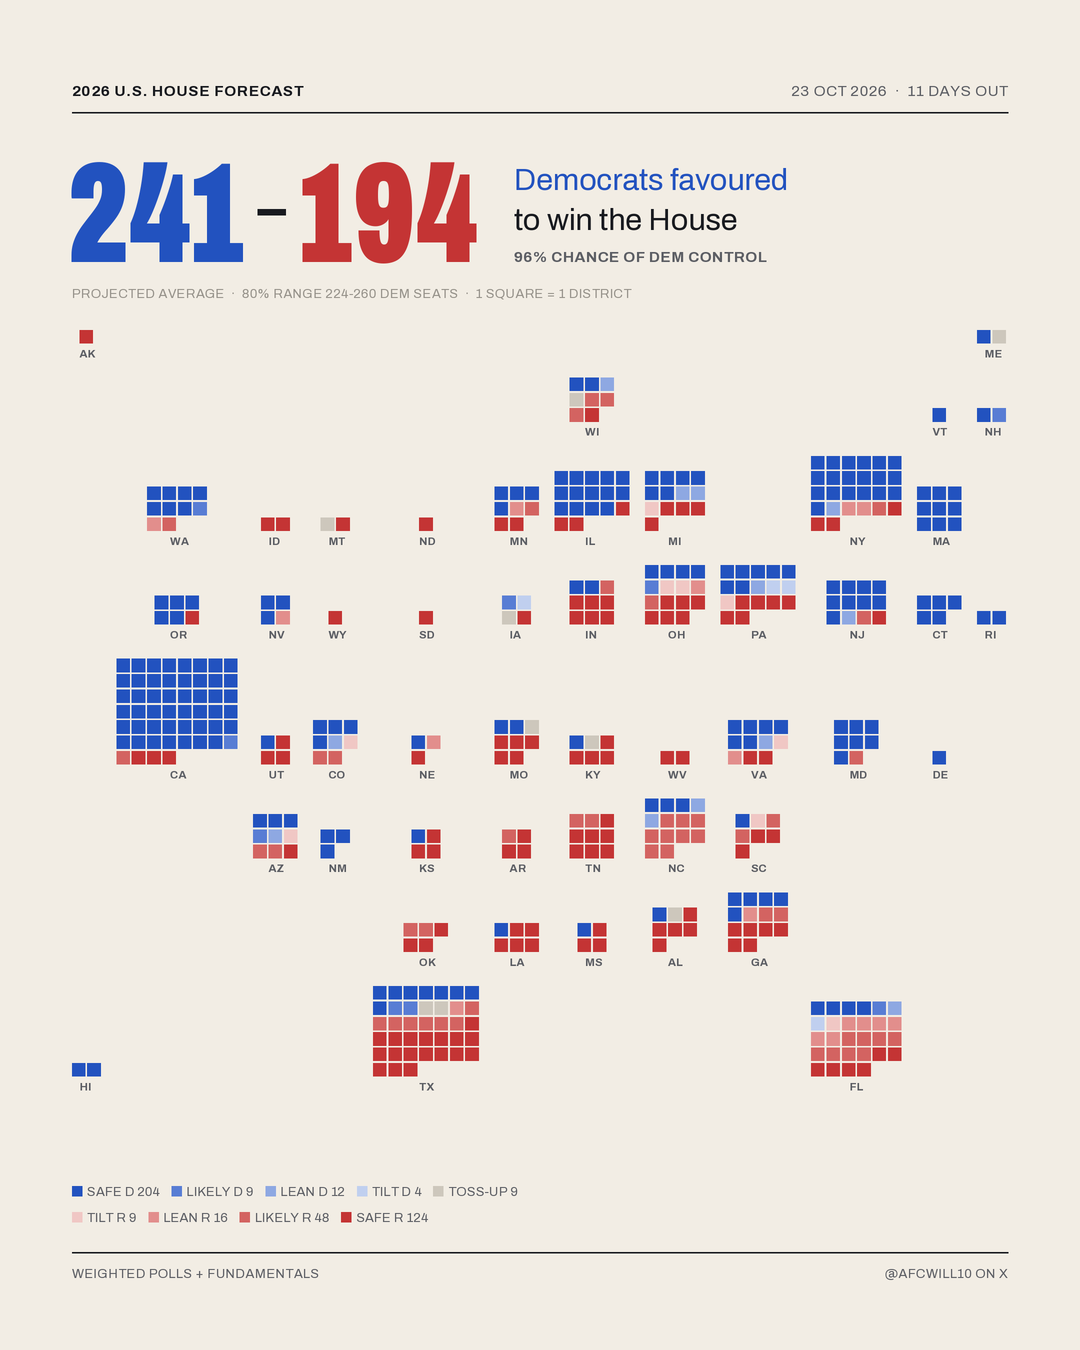
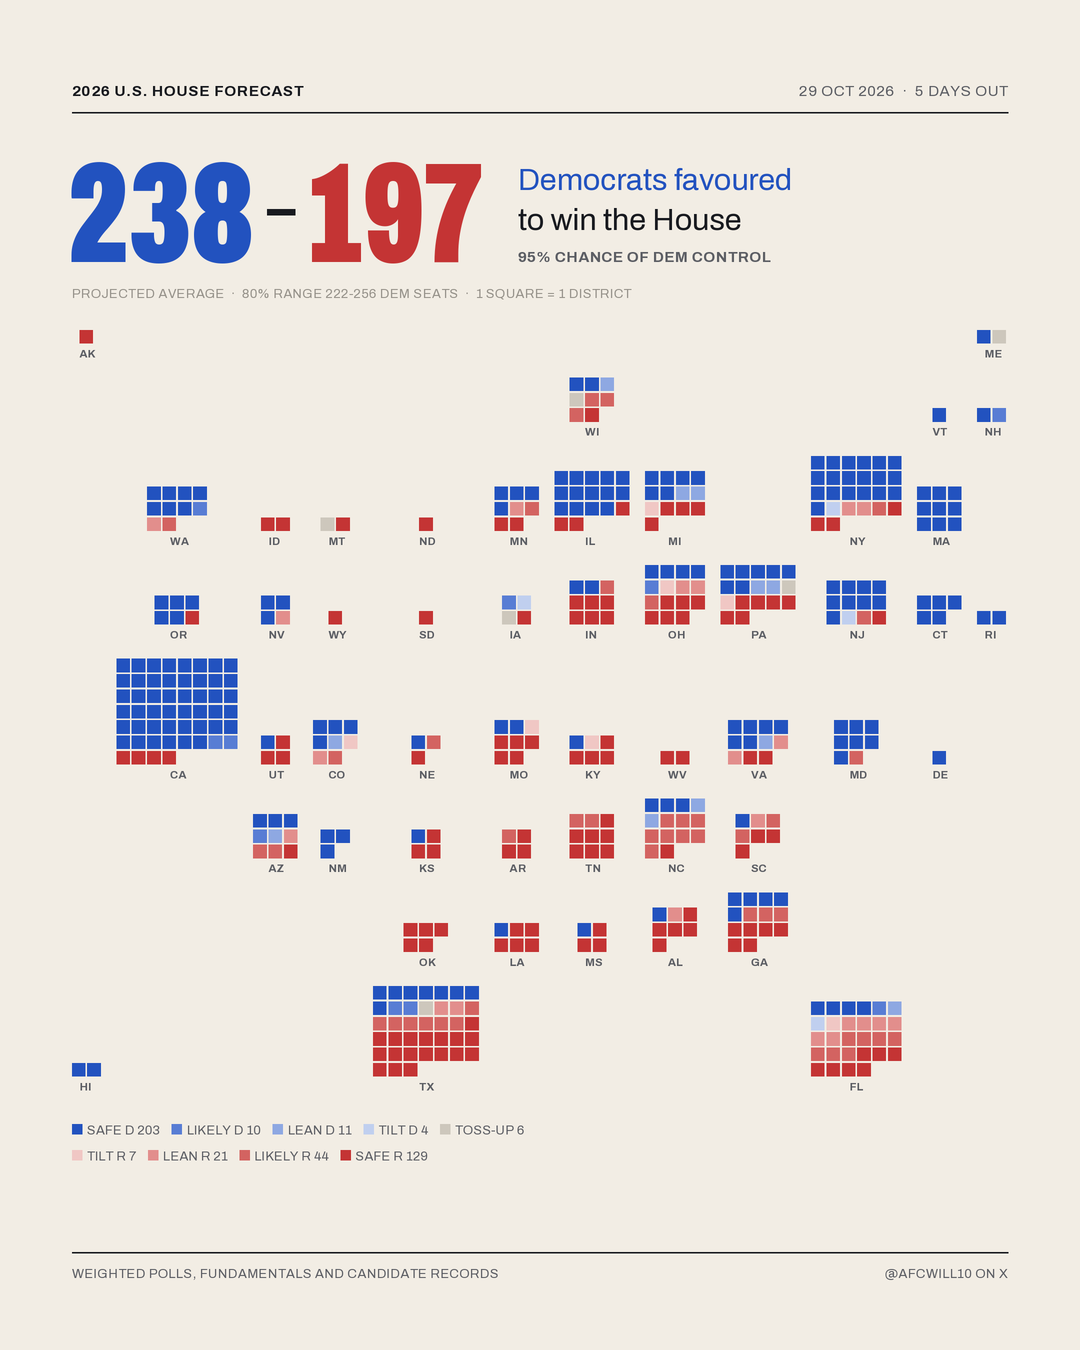
Graphics footer: 'Weighted polls, fundamentals and candidate records'; 29 Oct graphics
Claude-Session: https://claude.ai/code/session_019JSxA7aqHuyNv185JZNLWE

diff --git a/graphics/make_instagram.py b/graphics/make_instagram.py
@@ -227,7 +227,7 @@ def draw(RACES, DEM_SEATS, REP_SEATS, control_line, DATE_LABEL, title, prize, sp
     # --- footer ------------------------------------------------------------------
     fy = H - 72
     rect(d, (L, fy - 26, R, fy - 25), INK)
-    tracked(d, (L, fy), "WEIGHTED POLLS + FUNDAMENTALS", mono_sm, GRAPHITE, 1.2)
+    tracked(d, (L, fy), "WEIGHTED POLLS, FUNDAMENTALS AND CANDIDATE RECORDS", mono_sm, GRAPHITE, 1.2)
     tracked(d, (R, fy), "@AFCWILL10 ON X", mono_sm, GRAPHITE, 1.2, anchor="r")
 
     img = img.resize((W, H), Image.LANCZOS)

diff --git a/graphics/make_house.py b/graphics/make_house.py
@@ -195,7 +195,7 @@ def main():
     fy = H - 72
     assert y < fy - 40, "content runs into footer"
     rect(d, (L, fy - 26, R, fy - 25), INK)
-    tracked(d, (L, fy), "WEIGHTED POLLS + FUNDAMENTALS", mono_sm, GRAPHITE, 1.2)
+    tracked(d, (L, fy), "WEIGHTED POLLS, FUNDAMENTALS AND CANDIDATE RECORDS", mono_sm, GRAPHITE, 1.2)
     tracked(d, (R, fy), "@AFCWILL10 ON X", mono_sm, GRAPHITE, 1.2, anchor="r")
 
     img = img.resize((W, H), Image.LANCZOS)

diff --git a/graphics/make_house_shapes.py b/graphics/make_house_shapes.py
@@ -181,7 +181,7 @@ def main():
     fy = H - 72
     assert note_y + 24 < fy - 40
     rect(d, (L, fy - 26, R, fy - 25), INK)
-    tracked(d, (L, fy), "WEIGHTED POLLS + FUNDAMENTALS", mono_sm, GRAPHITE, 1.2)
+    tracked(d, (L, fy), "WEIGHTED POLLS, FUNDAMENTALS AND CANDIDATE RECORDS", mono_sm, GRAPHITE, 1.2)
     tracked(d, (R, fy), "@AFCWILL10 ON X", mono_sm, GRAPHITE, 1.2, anchor="r")
 
     img = img.resize((W, H), Image.LANCZOS)

diff --git a/graphics/make_house_map.py b/graphics/make_house_map.py
@@ -126,7 +126,7 @@ def main():
 
     fy = H - 72
     rect(d, (L, fy - 26, R, fy - 25), INK)
-    tracked(d, (L, fy), "WEIGHTED POLLS + FUNDAMENTALS", mono_sm, GRAPHITE, 1.2)
+    tracked(d, (L, fy), "WEIGHTED POLLS, FUNDAMENTALS AND CANDIDATE RECORDS", mono_sm, GRAPHITE, 1.2)
     tracked(d, (R, fy), "@AFCWILL10 ON X", mono_sm, GRAPHITE, 1.2, anchor="r")
 
     img = img.resize((W, H), Image.LANCZOS)
